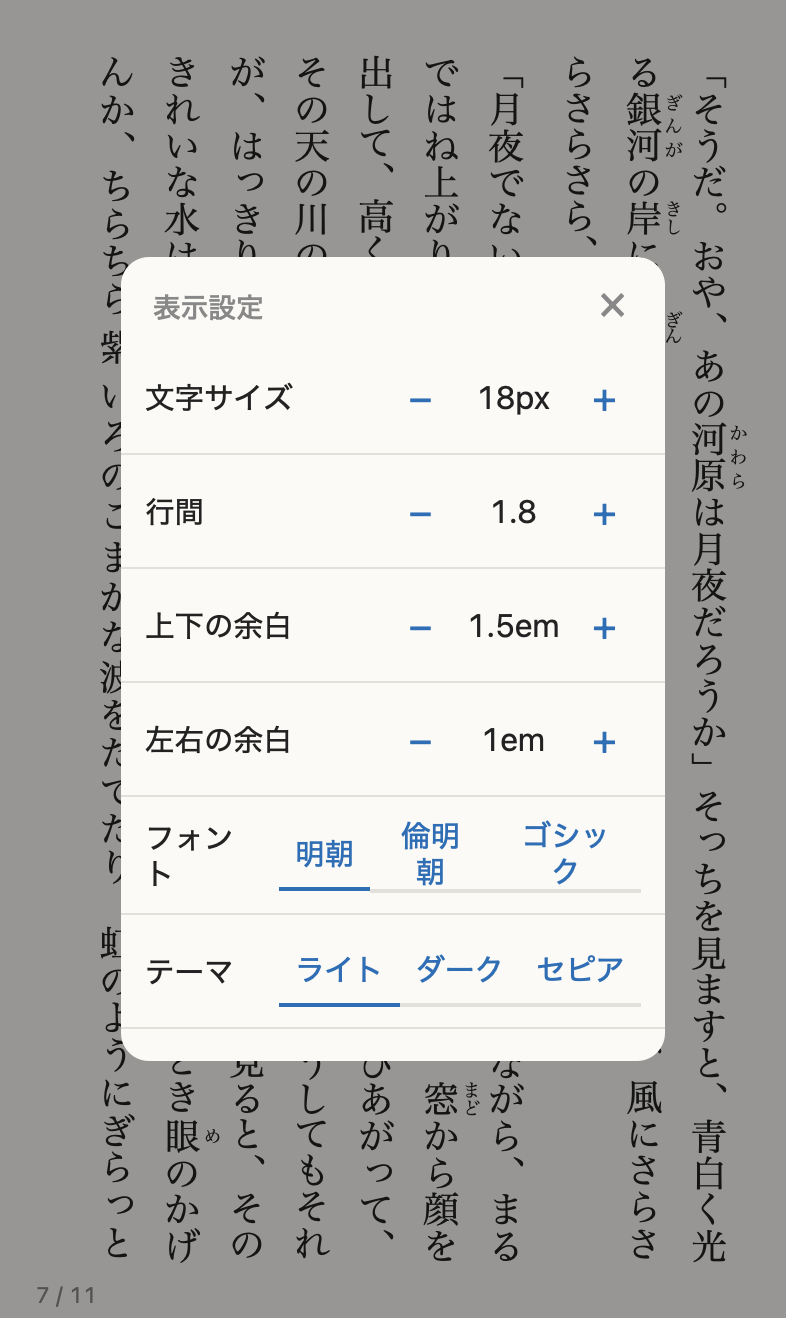
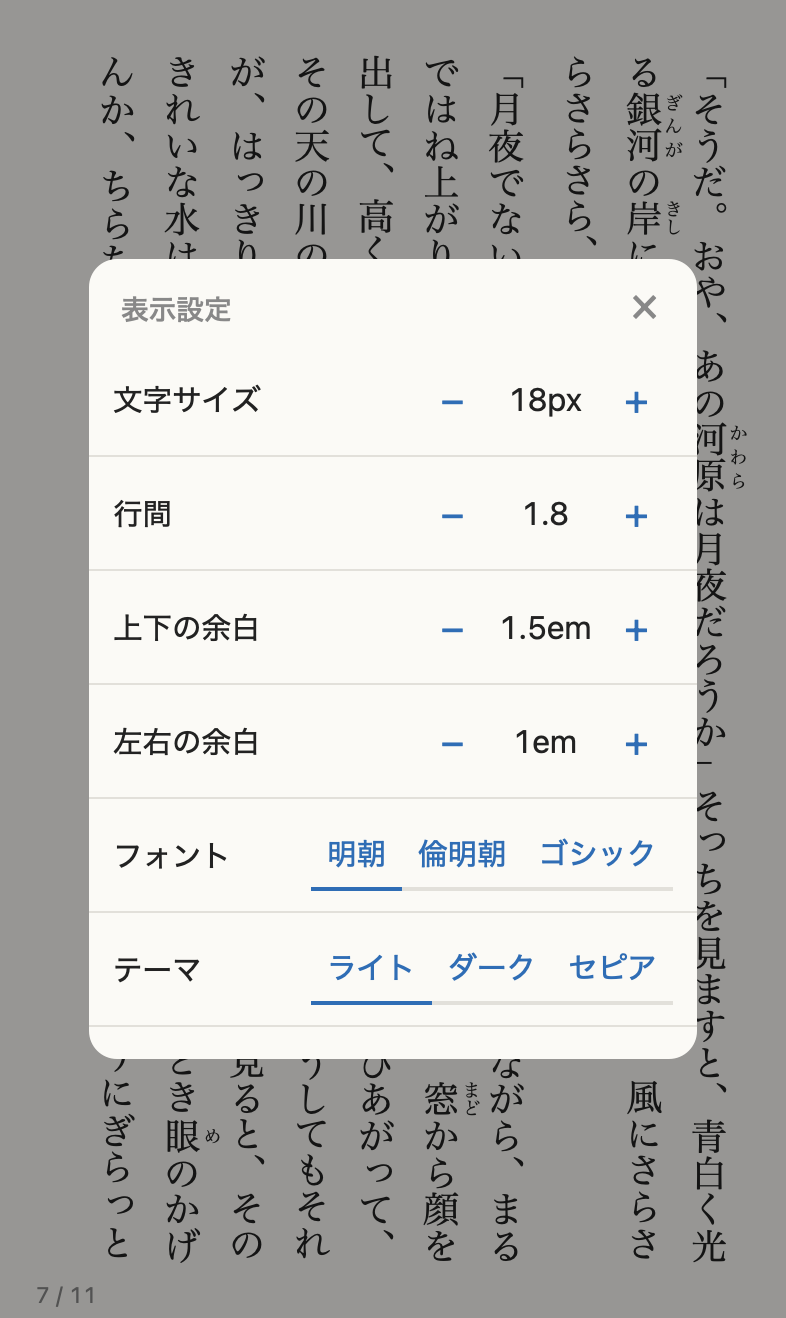
fix: widen display settings dialog so options fit on one line

diff --git a/public/style.css b/public/style.css
@@ -1067,7 +1067,7 @@ button.home .unico-icon {
 /* スマホでは左右の端の本文も見えるよう、項目が収まるぎりぎりの幅にする */
 @media (max-width: 799px) {
   #sheet.settings .sheet-panel {
-    width: min(272px, 100% - 32px);
+    width: min(304px, 100% - 32px);
   }
 }
 
@@ -1566,6 +1566,11 @@ button.home .unico-icon {
   min-height: 36px;
   font-size: 20px;
   color: var(--accent);
+}
+
+.setting > span,
+.segmented button {
+  white-space: nowrap;
 }
 
 .segmented button {
